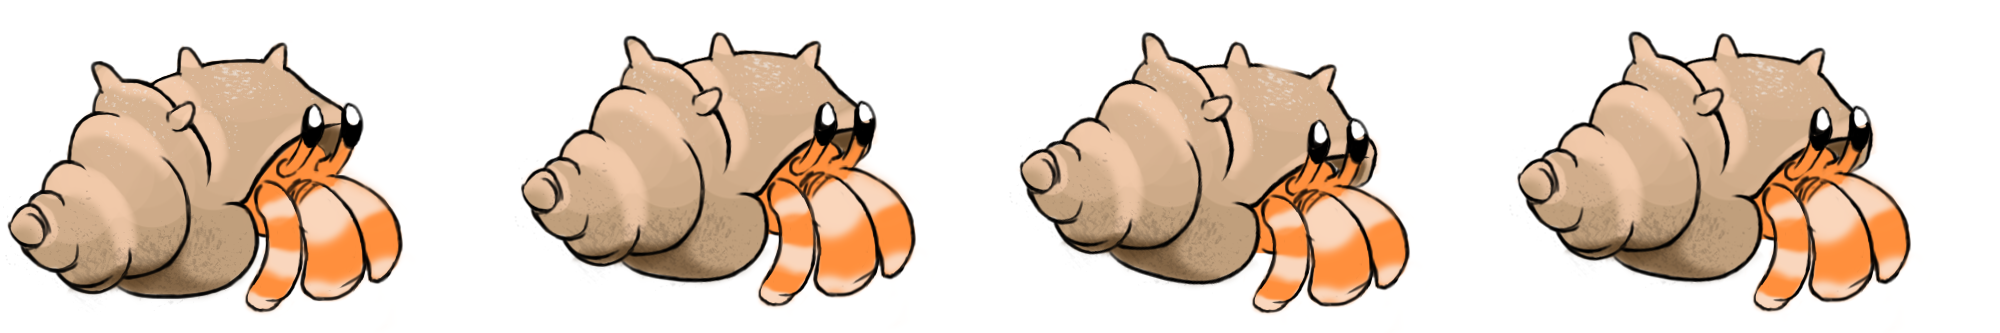
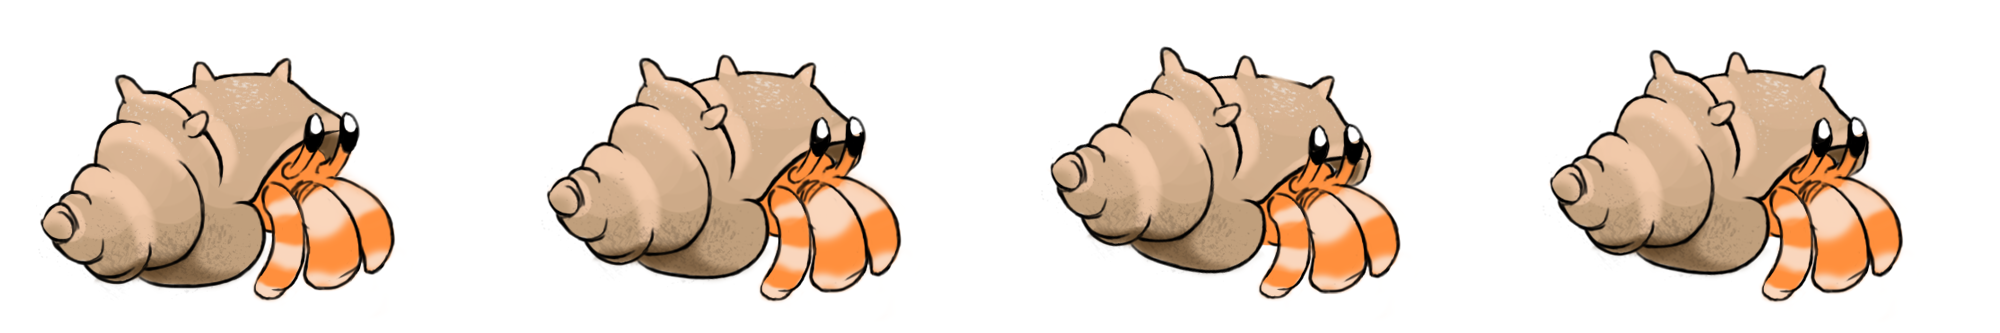
Fixed some animations

diff --git a/static/js/entity.js b/static/js/entity.js
@@ -58,14 +58,16 @@ function returnDefaultEntities(type) {
         'attackLeft': new Animation( hermitWalkRight, 500, 333, 12, true, false, [1,2,3,1]),
         'attackRight': new Animation( hermitWalkRight, 500, 333, 12, false, false, [1,2,3,1]),
         'idle': new Animation( hermitIdleDown, 500, 333, 5),
-        'left': new Animation( hermitWalkRight, 500, 333, 15, true),
-        'leftDown': new Animation( hermitIdleDown, 500, 333, 15, true),
-        'rightDown': new Animation( hermitIdleDown, 500, 333),
+        'idleRight': new Animation( hermitIdleRight, 500, 333, 5),
+        'idleLeft': new Animation( hermitIdleRight, 500, 333, 5, true),
+        'left': new Animation( hermitWalkLeft, 500, 333, 15),
+        'leftDown': new Animation( hermitWalkDown, 500, 333, 15, true),
+        'rightDown': new Animation( hermitWalkDown, 500, 333),
         'right': new Animation( hermitWalkRight, 500, 333, 15, false),
-        'up': new Animation( hermitIdleDown, 500, 333),
-        'leftUp': new Animation( hermitIdleDown, 500, 333, 15, true),
-        'rightUp': new Animation( hermitIdleDown, 500, 333),
-        'down': new Animation( hermitIdleDown, 500, 333, 15, true),
+        'up': new Animation( hermitWalkDown, 500, 333),
+        'leftUp': new Animation( hermitWalkDown, 500, 333, 15, true),
+        'rightUp': new Animation( hermitWalkDown, 500, 333),
+        'down': new Animation( hermitWalkDown, 500, 333, 15, true),
         'burrow': new Animation( hermitIdleDown, 500, 333, 5, false, false, [1,1,1,1,1,1,1]),
       };
       break;

diff --git a/static/js/globals.js b/static/js/globals.js
@@ -26,3 +26,9 @@ hermitWalkRight.src = '/img/hermit_walk_right.png';
 
 var scratchImg = new Image();
 scratchImg.src = '/img/scratch.png';
+
+var hermitWalkDown = new Image();
+hermitWalkDown.src = '/img/hermit_walk_down.png';
+
+var hermitWalkLeft = new Image();
+hermitWalkLeft.src = '/img/hermit_walk_left.png';
